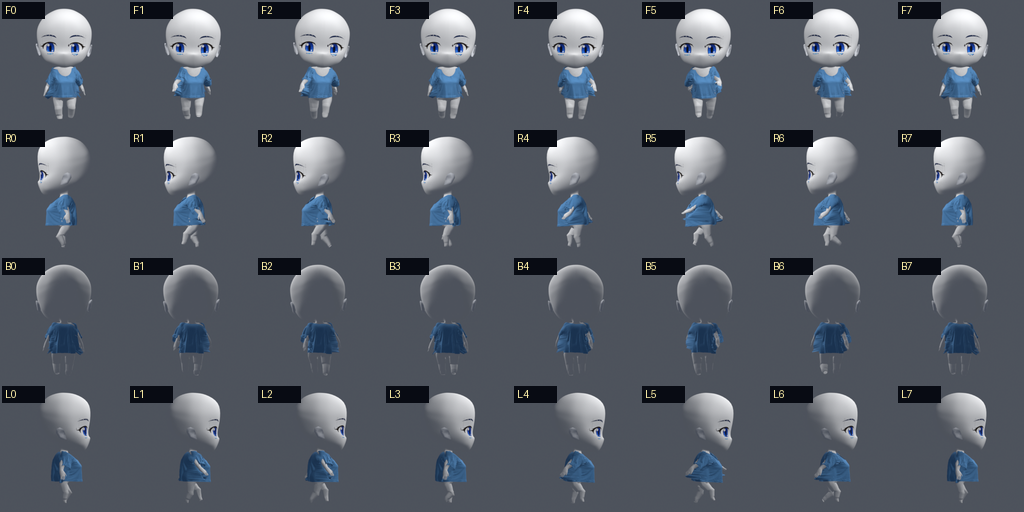
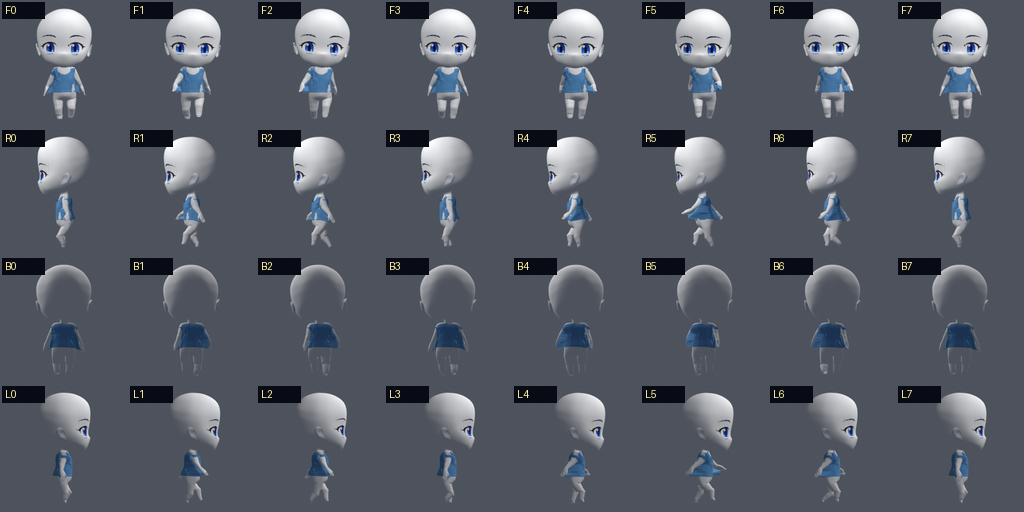
regenerate official short sleeve candidate

diff --git a/tools/garmentcode/generate_garmentcode_candidate.py b/tools/garmentcode/generate_garmentcode_candidate.py
@@ -29,6 +29,12 @@ def cli_args() -> argparse.Namespace:
     parser.add_argument("--width", type=float, default=1.05)
     parser.add_argument("--flare", type=float, default=1.03)
     parser.add_argument("--sleeveless", action="store_true")
+    parser.add_argument("--sleeve-length", type=float, default=None)
+    parser.add_argument("--sleeve-connecting-width", type=float, default=None)
+    parser.add_argument("--sleeve-end-width", type=float, default=None)
+    parser.add_argument("--cuff-type", choices=("CuffBand", "CuffSkirt", "CuffBandSkirt", "null"), default=None)
+    parser.add_argument("--front-collar", default=None)
+    parser.add_argument("--back-collar", default=None)
     return parser.parse_args()
 
 
@@ -49,6 +55,18 @@ def main() -> int:
     design["shirt"]["length"]["v"] = options.length
     design["shirt"]["width"]["v"] = options.width
     design["shirt"]["flare"]["v"] = options.flare
+    if options.sleeve_length is not None:
+        design["sleeve"]["length"]["v"] = options.sleeve_length
+    if options.sleeve_connecting_width is not None:
+        design["sleeve"]["connecting_width"]["v"] = options.sleeve_connecting_width
+    if options.sleeve_end_width is not None:
+        design["sleeve"]["end_width"]["v"] = options.sleeve_end_width
+    if options.cuff_type is not None:
+        design["sleeve"]["cuff"]["type"]["v"] = None if options.cuff_type == "null" else options.cuff_type
+    if options.front_collar is not None:
+        design["collar"]["f_collar"]["v"] = options.front_collar
+    if options.back_collar is not None:
+        design["collar"]["b_collar"]["v"] = options.back_collar
     if options.sleeveless:
         design["sleeve"]["sleeveless"]["v"] = True
         design["left"]["sleeve"]["sleeveless"]["v"] = True
@@ -84,6 +102,12 @@ def main() -> int:
             "width": options.width,
             "flare": options.flare,
             "sleeveless": options.sleeveless,
+            "sleeve_length": options.sleeve_length,
+            "sleeve_connecting_width": options.sleeve_connecting_width,
+            "sleeve_end_width": options.sleeve_end_width,
+            "cuff_type": options.cuff_type,
+            "front_collar": options.front_collar,
+            "back_collar": options.back_collar,
         },
         "output": str(Path(destination).resolve()),
         "panels": sorted(pattern.pattern["panels"]),

diff --git a/tools/build_preview_assets.py b/tools/build_preview_assets.py
@@ -168,8 +168,8 @@ CLOTHING_REVIEW_CANDIDATES = (
     },
     {
         "slug": "garmentcode_actor_proxy_current",
-        "label": "当前实验 / Clean Render Garment + Physics Proxy",
-        "root": ROOT / "prototype/test_output/garmentcode_actor_official_neutral_v3_surface_bias",
+        "label": "Current experiment / regenerated official short sleeve",
+        "root": ROOT / "prototype/test_output/clothes_next_short_sleeve_official_transfer_v1",
         "status": "当前实验",
         "note": "保留 GarmentCode 物理代理，独立生成规则四边面无袖 Render Garment（放大 U 型领口、前后肩带连接、侧缝、闭合下摆），再通过 Surface Deform 跟随 5,369 顶点 Animation Proxy；条带和侧面缺口已消除，仍需审核肩带贴合和动作帧。下一次实验会覆盖它。",
     },
@@ -329,9 +329,9 @@ def copy_clothing_review_assets() -> list[dict[str, object]]:
         if slug == "garmentcode_actor_proxy_current":
             candidate_label = "Current experiment / official milestone transferred to Actor"
             candidate_note = (
-                "Current review candidate: the official GarmentCode neutral-body milestone with its U-neck and sewn short sleeves, "
-                "transferred to the Actor with side-preserving projection and Actor armature weights. It remains review_required "
-                "until neckline, sleeve/armhole continuity, back integrity, and movement checks pass. The sleeveless baseline is preserved."
+                "Current review candidate: a freshly regenerated official GarmentCode short-sleeve pattern with CircleNeckHalf, "
+                "official Warp draping, then side-preserving Actor transfer and armature weights. It remains review_required "
+                "because the Actor transfer still has sleeve/hem penetration; the sleeveless baseline and prior milestone transfer are preserved."
             )
         else:
             candidate_label = candidate["label"]

diff --git a/docs/CLOTHES_OFFICIAL_SHORT_SLEEVE_REGEN_2026-08-06.md b/docs/CLOTHES_OFFICIAL_SHORT_SLEEVE_REGEN_2026-08-06.md
@@ -1,0 +1,53 @@
+# 官方参数化短袖重生成实验（2026-08-06）
+
+## 目的
+
+验证短袖应从官方 GarmentCode 参数重新生成，而不是拉伸或手工拼接现有网格。
+
+## 官方版型输入
+
+- 身体：`third_party/GarmentCode/assets/bodies/mean_all.yaml`
+- 设计源：`third_party/GarmentCode/assets/design_params/t-shirt.yaml`
+- `sleeveless=false`
+- `sleeve.length=0.30`
+- `sleeve.connecting_width=0.20`
+- `sleeve.end_width=1.0`
+- `sleeve.cuff.type=null`
+- `collar.f_collar=CircleNeckHalf`
+- `collar.b_collar=CircleNeckHalf`
+- 衣身参数保持官方默认：`shirt.length=1.2`、`width=1.05`、`flare=1.0`
+
+输出版型包含 8 个衣片、16 个 stitches，保留官方袖窿、袖片和 U 型领口结构。
+
+## 官方物理结果
+
+官方 Warp 模拟成功：
+
+- `fin_frame=406`；
+- `fails={}`；
+- `body_collisions=0`；
+- `self_collisions=0`；
+- `Static with 0 non-static vertices out of 7155`。
+
+这证明“短袖参数化生成”本身是可行的。
+
+## Actor 转移结果
+
+当前候选：`prototype/test_output/clothes_next_short_sleeve_official_transfer_v1/`
+
+转移参数沿用已验证的官方源转移路线：侧面保持投影、`clearance=0.018`、
+`front_flatten=0.008`、`back_clearance=0.008`、`sleeve_clearance=0.006`，并继承
+Actor 权重和 Armature modifier。
+
+统一检测结果为 `fail`：
+
+- 肩部位置：通过；
+- 身体离体：通过；
+- 背部完整性：通过；
+- 非流形：通过；
+- 下摆穿透：失败，8 个动作采样帧均有问题；
+- 总体穿透：每帧约 660–947 个顶点，最大下摆穿透约 0.033–0.044 m。
+
+结论：官方短袖版型和物理模拟已经通过，但 Actor 转移仍未通过。当前 Gallery
+只作为调优候选，不能替换无袖基线或进入随机池。下一步应优先修正转移阶段的
+袖窿/下摆深度映射，而不是修改官方版型。

diff --git a/docs/CLOTHES_STANDARDIZED_EXPERIMENT_WORKFLOW_2026-08-06.md b/docs/CLOTHES_STANDARDIZED_EXPERIMENT_WORKFLOW_2026-08-06.md
@@ -57,17 +57,17 @@ prototype/test_output/<candidate>/
 脚本退出码为 0 才表示自动门禁通过；非 0 必须保留报告并标记为 `fail`，不能仅凭
 Gallery 截图把它提升为通过。
 
-## 当前官方里程碑转移结果
+## 当前官方短袖参数化转移结果
 
-候选：`prototype/test_output/garmentcode_actor_official_neutral_v3_surface_bias/`
+候选：`prototype/test_output/clothes_next_short_sleeve_official_transfer_v1/`
 
 已运行统一检测，结果为 `fail`：
 
-- `shoulder_placement`: fail；
+- `shoulder_placement`: pass；
 - `hem_penetration`: fail；
-- `body_clearance`: fail；
+- `body_clearance`: pass；
 - `back_integrity` 与 `nonmanifold`: pass；
-- 8 个动作采样帧中均有不同程度的穿透/离体问题。
+- 8 个动作采样帧中仍有明显的衣身/下摆穿透。
 
 因此当前候选可以继续用于 Gallery 调优，但不能称为短袖里程碑，也不能进入随机池。
 下一轮应优先修正 Actor 转移的肩部、表面余量和下摆深度，再重新跑同一门禁；不能
